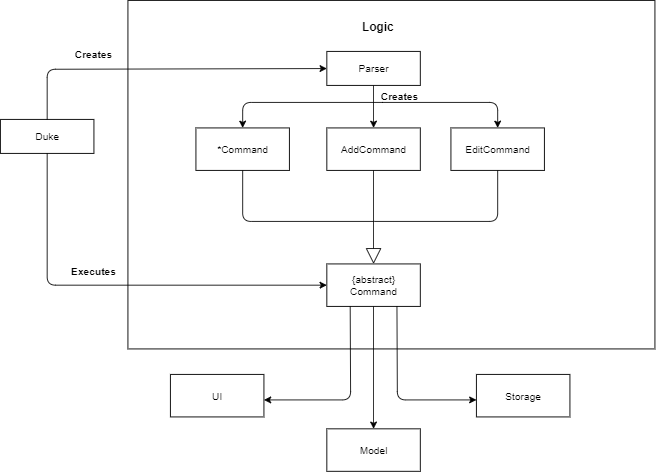
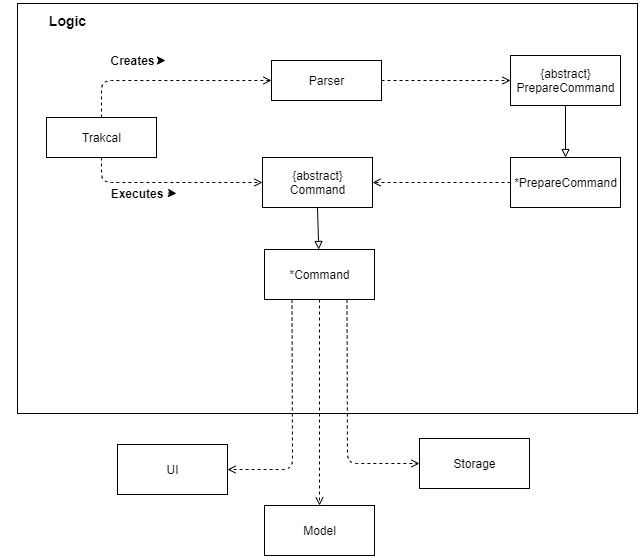
update dg

diff --git a/docs/DeveloperGuide.md b/docs/DeveloperGuide.md
@@ -64,12 +64,13 @@ The Architecture Diagram shown above explains the high-level design of **traKCAL
 *Figure 2. Diagram for logic component*
 
 The main bulk of data processing takes place in the logic component. In this component, 
-the data from the userinput is checked for its validity and parsed down futher to its respective command blocks.
-These blocks of command are derived from the abstract Command class. Each different command block deals with the 
+the data from the userinput is checked for its validity and parsed down futher by the preparecommand class to its respective command blocks.
+These command class are derived from the abstract Command class. Each different command block deals with the 
 proposed functionality which can be associated with `Ui`,`storage` or `model` components. 
 
 * **traKCAL** uses the parser class to filter based on command words by user.
-* Description that comes after is further parsed down by the Parser.
+* Description that comes after is further parsed down by the PrepareCommand class 
+and validity of those description are checked..
 * Respective Command object is created and is executed by **traKCAL**.
 * Respective execution methods can be further associated with `UI`, `Storage` and `Model` components.
 
@@ -272,11 +273,16 @@ The following sequence diagram shows how the `move` command is executed, where i
 
 The graph implementation shows the progress of the daily net 
 calories over the period of 7 days. The GraphProperty class extracts the available days from the 
-hashmap.
+stored data in the application.
 
 The days are sorted accordingly and the latest 7 days are chosen from the sorted list. 
-The properties of the graph such as axis range are also calculated. The GraphDrawing class makes use of these properties
+The GraphProperty class extracts these data and calculates the attributes needed to build the graph. The GraphDrawing class makes use of these properties
 to draw the graph.
+
+> Examples of graph properties include:
+> 1. Maximum/minimum calories
+> 1. Calorie interval
+> 1. 2-Dimensional array representation of the graph
 
 ![Graph_Sequence_Diagram](diagrams/GraphSequenceDiagram.png)
 
